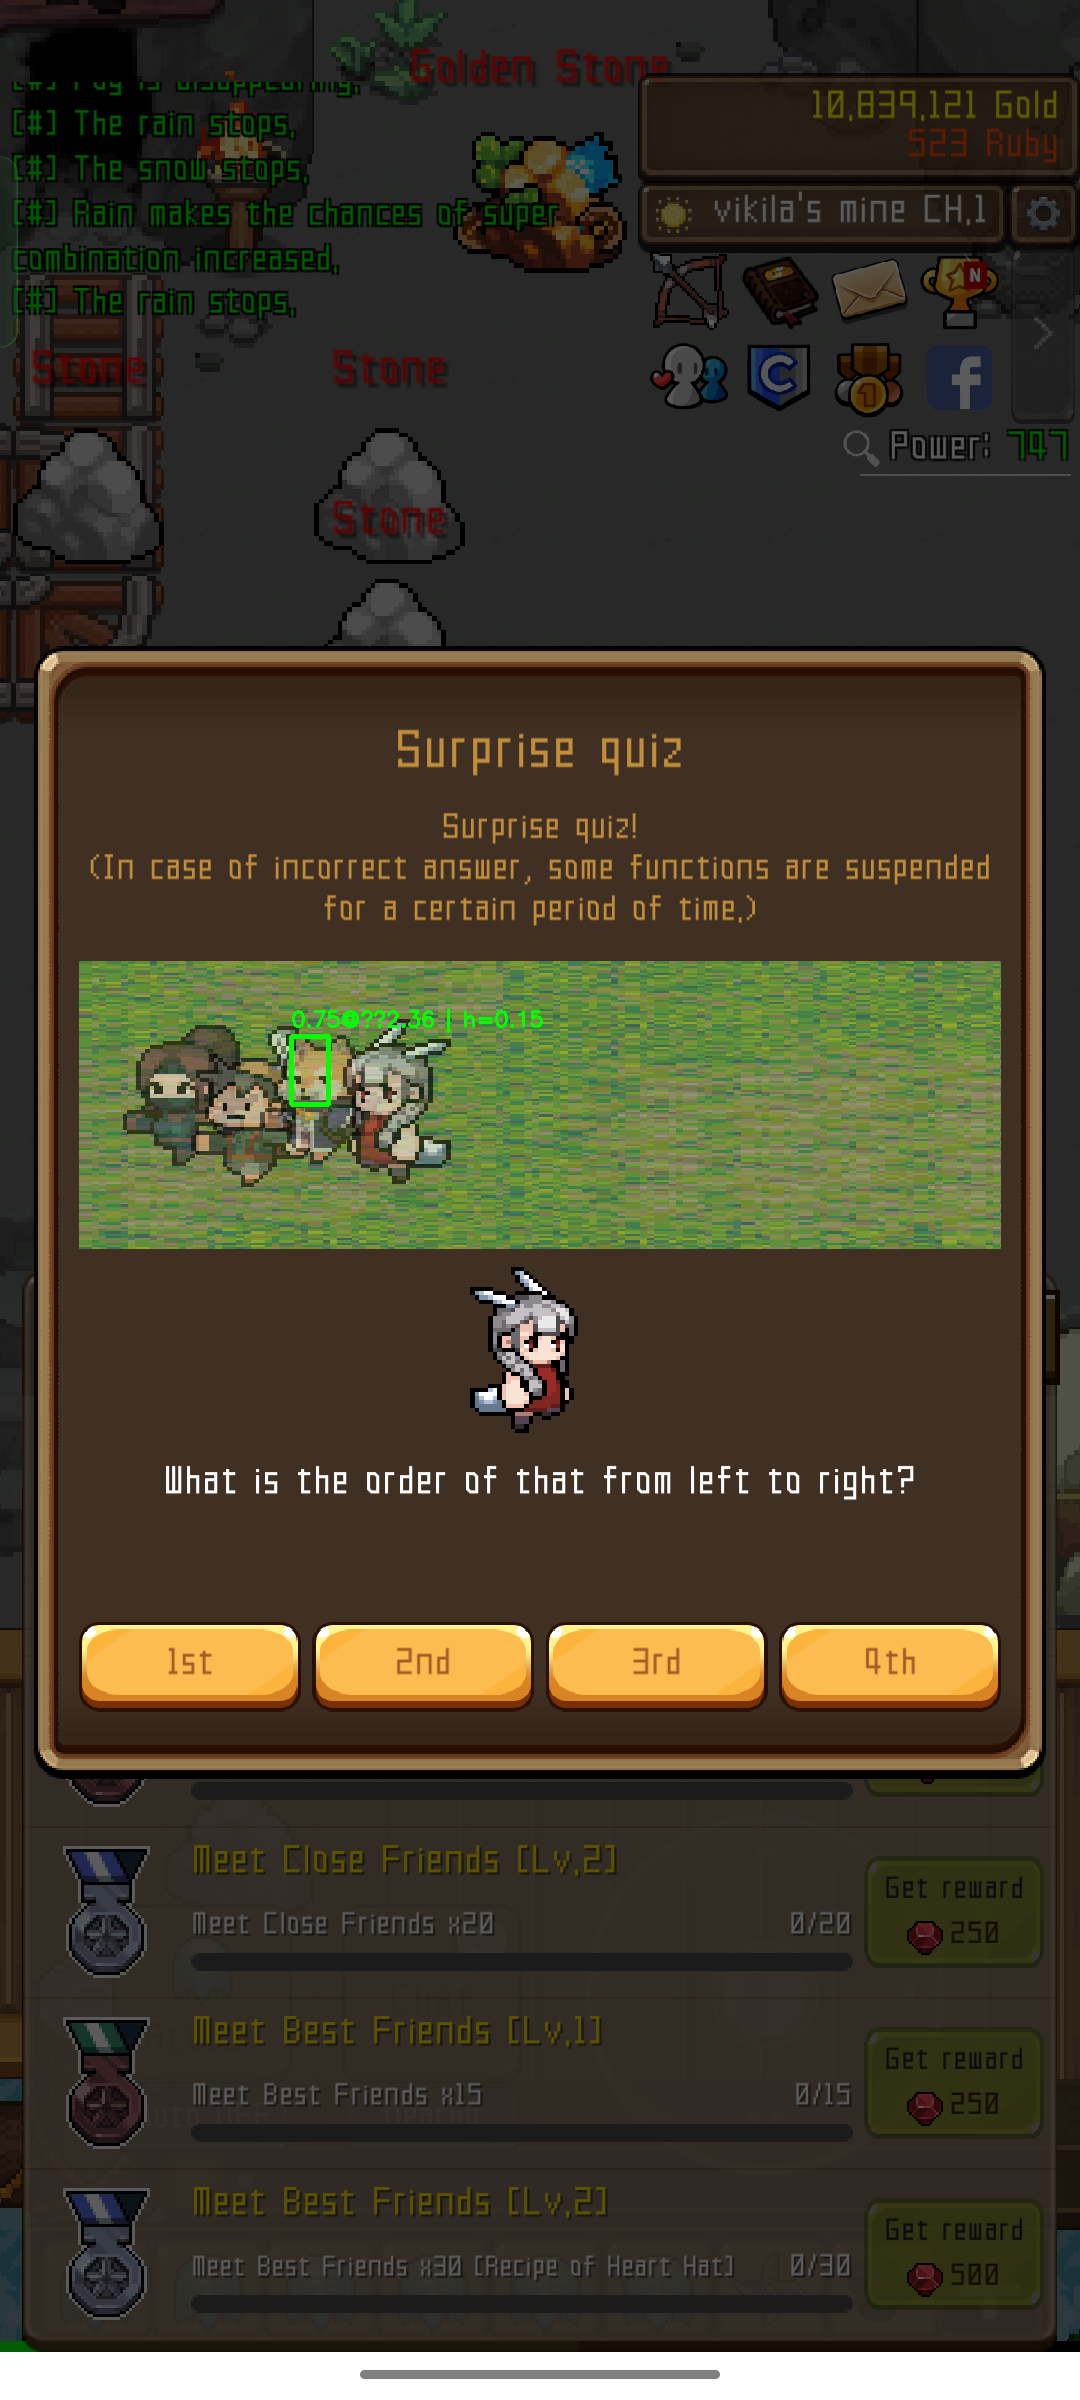
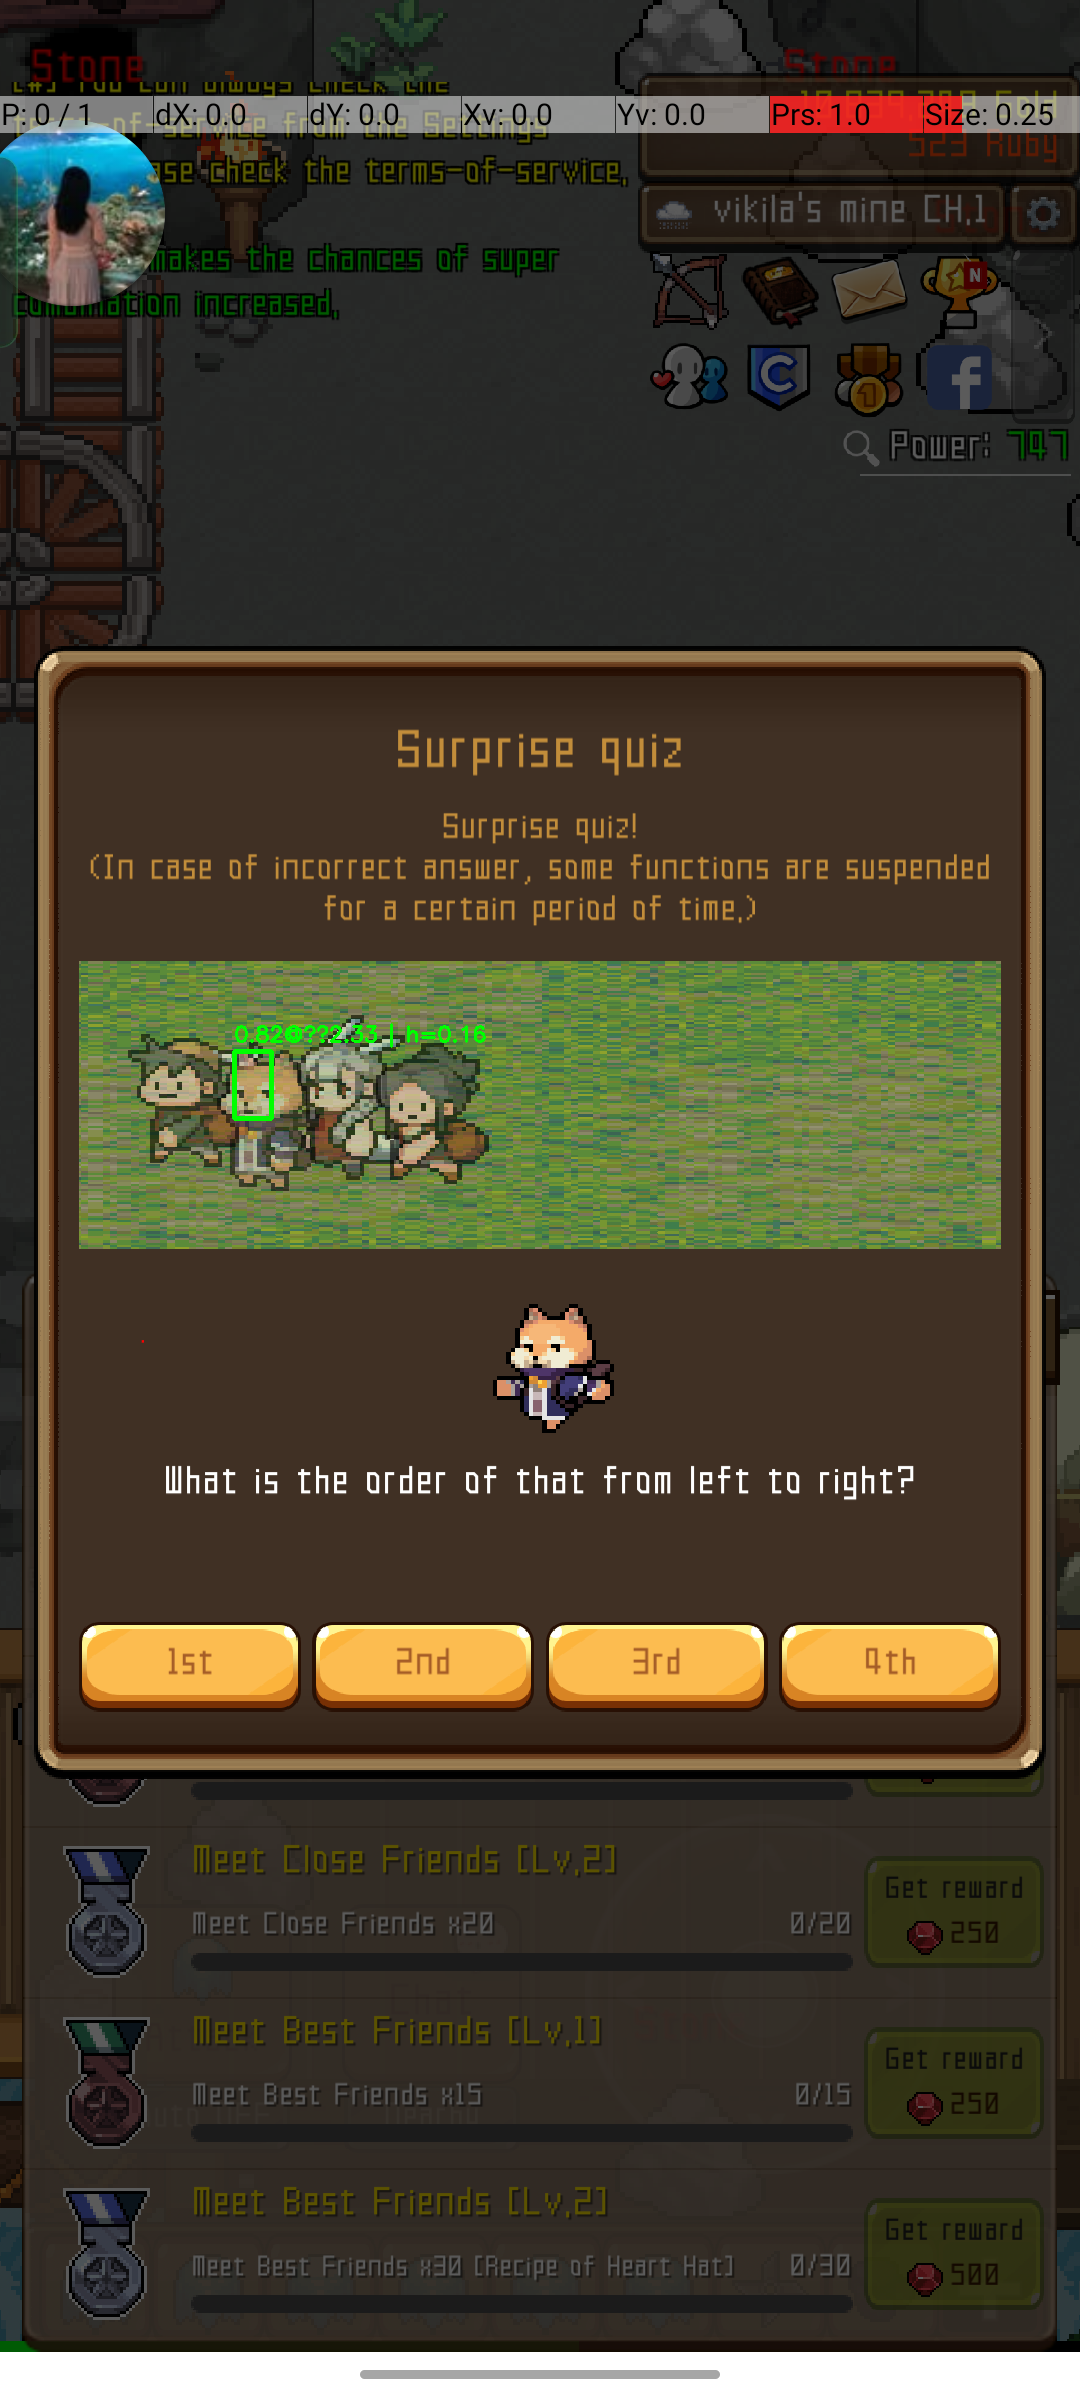
fix

diff --git a/sovle_quiz.py b/sovle_quiz.py
@@ -77,7 +77,7 @@ def get_search_user(img:np.ndarray):
             return "./growstone/quiz/faces/slim-doge1.png"
         case 8 | 9:
             print('Girl')
-            return "./growstone/quiz/faces/slim-bhgirl1.png"
+            return "./growstone/quiz/faces/slim-bhgirl3.png"
         case 10 | 11:
             print('Kakasi')
             return "./growstone/quiz/faces/slim-ninja1.png"
@@ -139,7 +139,7 @@ def detech_slim_user(img: np.ndarray, roi: tuple[int, int, int, int]):
         "./growstone/quiz/faces/slim-blue2.png",
         "./growstone/quiz/faces/slim-boy1.png",
         "./growstone/quiz/faces/slim-doge1.png",
-        "./growstone/quiz/faces/slim-bhgirl1.png",
+        "./growstone/quiz/faces/slim-bhgirl3.png",
         "./growstone/quiz/faces/slim-ninja1.png",
         "./growstone/quiz/faces/slim-fninja1.png",
         "./growstone/quiz/faces/slim-wrgirl1.png"
@@ -149,19 +149,19 @@ def detech_slim_user(img: np.ndarray, roi: tuple[int, int, int, int]):
 
     for idx, user in enumerate(list_slim_user):
         try:
-            annotated, result = detect_template(img, user, roi, 0.7, 0.1, 1, SCALE_MAX, 30, 30, None, True)
+            annotated, result = detect_template(img, user, roi, 0.7, 0.02, 1, SCALE_MAX, 30, 30, None, True)
             if result:
                 x1, y1 = result["top_left"]
-                # print(f'user find is index {idx}- x1: {x1} - match_score: {result['match_score']} - hist_corr: {result['hist_corr']} - user:{user}' )
-                # cv2.imwrite(f'./debug_list_slim/image{idx}.png', annotated)
-                # print(f"✅ Đã lưu ảnh → ./debug_list_slim/image{idx}.png")
-                # print()
+                print(f'user find is index {idx}- x1: {x1} - match_score: {result['match_score']} - hist_corr: {result['hist_corr']} - user:{user}' )
+                cv2.imwrite(f'./debug_list_slim/image{idx}.png', annotated)
+                print(f"✅ Đã lưu ảnh → ./debug_list_slim/image{idx}.png")
+                print()
                
                 matched_users.append((x1, user))  # Lưu lại khi tìm được
         except ValueError as e:
             msg, x1, y1, x2, y2 = e.args
-            # print(f"[{idx}] Phát hiện thất bại: {msg!r} – user={user}")
-            # print()
+            print(f"[{idx}] Phát hiện thất bại: {msg!r} – user={user}")
+            print()
     matched_users.sort()
     return matched_users
 
@@ -180,8 +180,11 @@ def sovle_capchav2(img:np.ndarray):
     roi = (x1_ug, y1_ug, x2_ug-x1_ug, y2_ug-y1_ug)
     matched_users = detech_slim_user(img, GRASS_ROI)
     print("matched_users", matched_users)
-    # if  matched_users.__len__() != 4:
-    #     return  sovle_capchav2(img)
+    if  matched_users.__len__() != 4:
+        #how to throw error
+        print("❌ Không tìm thấy đủ 4 người")
+        return
+    
         
     idx = find_user_index_by_path(matched_users, slim_image)
     if idx is not None:

diff --git a/detect_utils.py b/detect_utils.py
@@ -119,7 +119,7 @@ def multi_scale_template_match(
 
     def match_at_scale(s: float):
         w, h = int(w0 * s), int(h0 * s)
-        if w < 10 or h < 10 or w > gray_roi.shape[1] or h > gray_roi.shape[0]:
+        if w < 20 or h < 20 or w > gray_roi.shape[1] or h > gray_roi.shape[0]:
             return None
         tpl_rs = cv2.resize(tpl_f, (w, h), interpolation=cv2.INTER_AREA)
         res = cv2.matchTemplate(gray_f, tpl_rs, cv2.TM_CCOEFF_NORMED)

diff --git a/main.py b/main.py
@@ -50,8 +50,9 @@ if __name__ == "__main__":
     start_time = time.time()  # Bắt đầu đo tổng thời gian
 
     full_img = adb_screencap()
-    for i in range(5):
-        sovle_capchav2(full_img)
+    sovle_capchav2(full_img)
+    # for i in range(5):
+        
 
 
     # x1_1, y1_1, x2_1, y2_1 = detect_characters_group_bbox(full_img)
